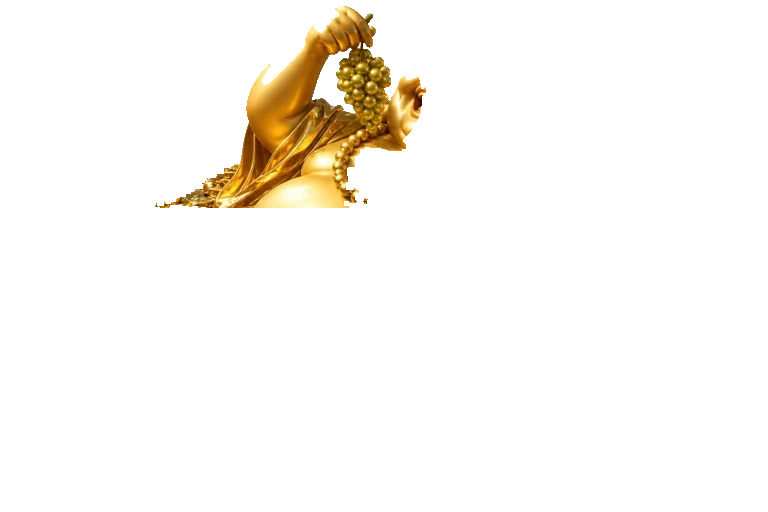
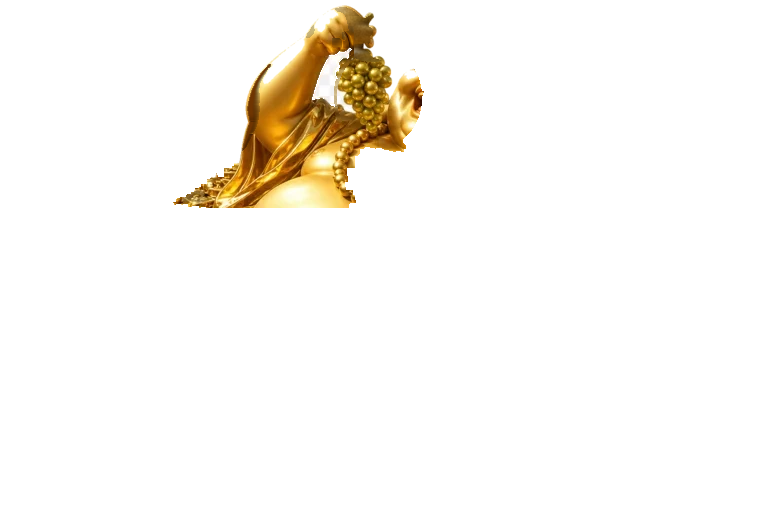
Fresh part build: each part its own complete picture (Live2D method)
Discards the patched pipeline. One source artwork + the accepted
delivery; parts divided by the motion (body still / arm at the shoulder
/ bunch at the stem), each complete, puzzle-checked: rest == artwork
(67 px over 32, max 64, down from 2013/255; sanctioned pocket excluded,
pocket pale over dark card 0, GAP 0/0, swing 0/0). Roles enforced:
arm=solid+own colours (paint only under berries), anchor=whole-footprint
alpha with the rim + paint under solid holes, plate=lowered body behind,
grapes=copy. Lossless writes.

diff --git a/app/scripts/scene-parts-fresh.py b/app/scripts/scene-parts-fresh.py
@@ -1,0 +1,370 @@
+#!/usr/bin/env python3
+"""
+THE FRESH PART BUILD — each part its own complete original picture.
+
+The method (the user's hypothesis, confirmed by Live2D's own illustration-
+processing guide and Clip Studio's official Live2D companion): divide the
+character into the minimum parts the motion needs — here the BODY (still),
+the ARM (rotates about the shoulder), the BUNCH (rotates about the stem,
+nested in the arm's swing) — draw every part COMPLETE (each part is its own
+original picture, nothing cut away from the master), and fit them together
+like puzzle pieces: the stacked scene at rest must BE the original artwork,
+bit for bit. "Always overlap the divided parts with the original drawing
+after cutting them out and check for any missing parts."
+
+Sources, and nothing else:
+  * the served artwork (mascot-gold-buddha-base.webp) — every pixel a part
+    shows AT REST is this file's own pixel;
+  * the accepted painted delivery (keyform-package DELIVERY, 18,998 px,
+    numeric gate + 4x eye passed) — every pixel a part shows ONLY WHILE
+    MOVING (under the turning limb, under the swinging berries) is the
+    delivery's paint;
+  * the two poses the artwork itself provides (base/rest) for the lowered
+    body the belly window must show.
+
+The one sanctioned deviation from the artwork: the baked page-pattern pocket
+beside the fist — sky in both generations — goes transparent, so the card
+shows through. The master is never modified; if a part is deleted the
+artwork is untouched on disk.
+
+Roles, stated once, enforced below:
+  ARM   = the visible limb: solid pixels only, the artwork's own colours.
+          Under opaque berries (revealed by the swing) it carries the paint.
+  ANCHOR= the limb's backdrop: the artwork's own alpha across the footprint
+          (the soft rim rides it — one alpha deep, never doubled), the paint
+          where the holes lie under solid coverage (seen only when the limb
+          turns away).
+  PLATE = the body, and behind the footprint the LOWERED pose's own body,
+          light-matched — what the belly window shows when arm and anchor
+          step aside.
+  GRAPES= the straight copy: the artwork's own pixels and alpha.
+
+    python3 app/scripts/scene-parts-fresh.py
+"""
+import io
+import json
+import os
+from collections import deque
+
+import numpy as np
+from PIL import Image, ImageChops, ImageDraw, ImageFilter
+
+HERE = os.path.dirname(os.path.abspath(__file__))
+DIR = os.path.join(HERE, "..", "public", "img", "cosmetics")
+PKG = os.path.join(HERE, "..", "..", "docs", "evidence", "round56", "keyform-package")
+W, H = 768, 512
+CARD = (23, 18, 12)
+
+
+def state(n):
+    return Image.open(os.path.join(DIR, f"mascot-gold-buddha-{n}.webp")).convert("RGBA")
+
+
+def served(img, quality=92):
+    buf = io.BytesIO()
+    img.save(buf, "WEBP", quality=quality, method=6)
+    buf.seek(0)
+    return Image.open(buf).convert("RGBA")
+
+
+base, rest = state("base"), state("rest")
+base_q, rest_q = served(base, 92), served(rest, 92)
+A_b = np.asarray(base_q.getchannel("A")).astype(np.float32) / 255.0
+A_r = np.asarray(rest_q.getchannel("A")).astype(np.float32) / 255.0
+B_rgb = np.asarray(base_q.convert("RGB")).astype(np.float32)
+R_rgb = np.asarray(rest_q.convert("RGB")).astype(np.float32)
+
+# ── 1. WHERE THE PARTS SPLIT (the cut, from the two poses as drawn) ─────────
+ARM_BOX = (140, 0, 426, 208)
+DIFF_GATE = 34
+box = np.zeros((H, W), bool)
+box[ARM_BOX[1]:ARM_BOX[3], ARM_BOX[0]:ARM_BOX[2]] = True
+paint_b, paint_r = A_b > 0.05, A_r > 0.05
+delta = np.abs(B_rgb - R_rgb).max(axis=2)
+against_air = paint_b & ~paint_r & box
+over_body = paint_b & paint_r & (delta > DIFF_GATE) & box
+raw = Image.fromarray(((against_air | over_body) * 255).astype(np.uint8))
+for _ in range(2):
+    raw = raw.filter(ImageFilter.MaxFilter(3))
+for _ in range(2):
+    raw = raw.filter(ImageFilter.MinFilter(3))
+m = np.asarray(raw) > 128
+
+gd_img = Image.new("L", (W, H), 0)
+gd = ImageDraw.Draw(gd_img)
+gd.ellipse([334, 48, 420, 146], fill=255)
+gd.polygon([(362, 24), (384, 24), (388, 70), (358, 70)], fill=255)
+m |= np.asarray(gd_img.filter(ImageFilter.MaxFilter(3))) > 128
+
+lab = np.zeros((H, W), np.int32)
+n_lab = 0
+for y0, x0 in np.argwhere(m):
+    if lab[y0, x0]:
+        continue
+    n_lab += 1
+    q = deque([(y0, x0)])
+    lab[y0, x0] = n_lab
+    while q:
+        y, x = q.popleft()
+        for dy, dx in ((1, 0), (-1, 0), (0, 1), (0, -1)):
+            ny, nx = y + dy, x + dx
+            if 0 <= ny < H and 0 <= nx < W and m[ny, nx] and not lab[ny, nx]:
+                lab[ny, nx] = n_lab
+                q.append((ny, nx))
+if n_lab:
+    sizes = np.bincount(lab.ravel())
+    m = np.isin(lab, np.where(sizes >= 150)[0][1:])
+m |= against_air
+
+free = ~m
+seen = np.zeros_like(free)
+q = deque()
+for x in range(W):
+    for y in (0, H - 1):
+        if free[y, x] and not seen[y, x]:
+            seen[y, x] = True
+            q.append((y, x))
+for y in range(H):
+    for x in (0, W - 1):
+        if free[y, x] and not seen[y, x]:
+            seen[y, x] = True
+            q.append((y, x))
+while q:
+    y, x = q.popleft()
+    for dy, dx in ((1, 0), (-1, 0), (0, 1), (0, -1)):
+        yy, xx = y + dy, x + dx
+        if 0 <= yy < H and 0 <= xx < W and free[yy, xx] and not seen[yy, xx]:
+            seen[yy, xx] = True
+            q.append((yy, xx))
+m = m | (~seen)
+M = np.asarray(Image.fromarray((m * 255).astype(np.uint8)).filter(ImageFilter.GaussianBlur(0.9))) > 128
+
+G_img = Image.new("L", (W, H), 0)
+gd = ImageDraw.Draw(G_img)
+gd.ellipse([338, 52, 416, 142], fill=255)
+gd.polygon([(364, 28), (382, 28), (386, 68), (360, 68)], fill=255)
+fist = Image.new("L", (W, H), 0)
+ImageDraw.Draw(fist).ellipse([344, 16, 400, 60], fill=255)
+G_img = ImageChops.subtract(
+    G_img.filter(ImageFilter.MaxFilter(3)), fist.filter(ImageFilter.MaxFilter(3)))
+G = np.asarray(G_img) > 128
+
+SOLID = A_b >= 0.98
+
+# ── 2. THE HIDDEN ART — the accepted delivery, light-matched once ───────────
+manifest = json.load(open(os.path.join(PKG, "manifest.json")))
+holes1536 = np.zeros((1024, 1536), bool)
+paint1536 = np.zeros((1024, 1536, 4), np.uint8)
+for r in manifest:
+    rid = r["id"]
+    holes1536 |= np.load(os.path.join(PKG, rid + "-mask.npy")) > 0
+    p = np.asarray(Image.open(os.path.join(PKG, "DELIVERY", rid + "-paint.png")).convert("RGBA"))
+    ox, oy = r["template_offset"]
+    paint1536[oy:oy + p.shape[0], ox:ox + p.shape[1]] = p
+sky1536 = np.load(os.path.join(PKG, "SKY-page-belongs.npy")) > 0
+
+
+def half(mask):
+    return np.asarray(Image.fromarray((mask * 255).astype(np.uint8)).resize((W, H), Image.BOX)) >= 128
+
+
+HOLES = half(holes1536) & ~half(sky1536)
+PAINT = np.asarray(Image.fromarray(paint1536).resize((W, H), Image.BOX)).astype(np.float32)
+
+# One low-frequency match (the paints were graded against the 1536 master;
+# the parts are the served 768 artwork), blurred over the paints' REAL
+# backdrop — the accepted canvas — never over black transparency.
+canvas1536 = np.asarray(Image.open(os.path.join(
+    DIR, "mascot-gold-buddha-base.png")).convert("RGB")).copy()
+canvas1536[holes1536 & ~sky1536] = paint1536[holes1536 & ~sky1536, :3]
+CANVAS7 = np.asarray(Image.fromarray(canvas1536).resize((W, H), Image.BOX)).astype(np.float32)
+lo_b = np.asarray(Image.fromarray(B_rgb.astype(np.uint8)).filter(ImageFilter.GaussianBlur(24))).astype(np.float32)
+lo_c = np.asarray(Image.fromarray(CANVAS7.astype(np.uint8)).filter(ImageFilter.GaussianBlur(24))).astype(np.float32)
+ratio = np.clip((lo_b + 8.0) / (lo_c + 8.0), 0.80, 1.35)
+PAINT = np.clip(PAINT[..., :3] * ratio, 0, 255)
+
+# ── 3. THE POCKET — the sanctioned baked-page repair ────────────────────────
+POCKET = np.zeros((H, W), bool)
+POCKET[44:116, 308:357] = True
+lum = B_rgb @ np.array([.299, .587, .114])
+rb = B_rgb[..., 0] - B_rgb[..., 2]
+g_dil = np.asarray(Image.fromarray((G * 255).astype(np.uint8)).filter(ImageFilter.MaxFilter(5))) > 128
+PAGE_POCKET = POCKET & (A_b > 0.02) & (lum > 140) & (rb < 95) & (rb >= 40) & ~g_dil
+
+# ── 4. THE PARTS, each complete, each with its job ──────────────────────────
+lo_r = np.asarray(Image.fromarray(R_rgb.astype(np.uint8)).filter(ImageFilter.GaussianBlur(24))).astype(np.float32)
+ratio_fill = np.clip((lo_b + 8.0) / (lo_r + 8.0), 0.80, 1.35)
+fill_rgb = np.clip(R_rgb * ratio_fill, 0, 255)
+
+# PLATE — the body; behind the footprint, the lowered body (the belly window
+# shows it when arm and anchor step aside); pocket goes to the card.
+plate_rgb = np.where((M & SOLID)[..., None], fill_rgb, B_rgb)
+plate_a = np.where(M & SOLID, A_r, np.where(M, 0.0, A_b))
+plate_a = np.where(PAGE_POCKET, 0.0, plate_a)
+
+# ANCHOR — the limb's backdrop: the artwork's own alpha across the whole
+# footprint (the soft rim rides HERE, one alpha deep — never doubled with the
+# limb's), the artwork's own colours everywhere EXCEPT under solid coverage
+# in the holes, where the accepted paint waits for the limb to turn away.
+anchor_rgb = np.where((HOLES & SOLID & ~G & ~PAGE_POCKET)[..., None], PAINT, B_rgb)
+anchor_a = np.where(M, A_b, 0.0)
+anchor_a = np.where(PAGE_POCKET, 0.0, anchor_a)
+
+# ARM — the visible limb, complete: SOLID pixels only (the soft rim belongs
+# to the anchor — partial alpha drawn twice is the one arithmetic that breaks
+# the puzzle), the artwork's own colours — except under the berries, where
+# the paint is what a swung berry reveals.
+arm_rgb = np.where(M[..., None], B_rgb, B_rgb)
+arm_rgb = np.where((G & SOLID & ~PAGE_POCKET)[..., None], PAINT, arm_rgb)
+arm_alpha = np.where(M & SOLID & ~G & ~PAGE_POCKET, A_b, 0.0)
+
+# GRAPES — the straight copy.
+grapes_rgb = B_rgb
+grapes_a = np.where(G, A_b, 0.0)
+
+
+def merge(rgb, a):
+    return Image.merge("RGBA", (*[Image.fromarray(np.clip(rgb[..., c], 0, 255).astype(np.uint8)) for c in range(3)],
+                                Image.fromarray((np.clip(a, 0, 1) * 255).round().astype(np.uint8))))
+
+
+plate = merge(plate_rgb, plate_a)
+anchor = merge(anchor_rgb, anchor_a)
+arm = merge(arm_rgb, arm_alpha)
+grapes_part = merge(grapes_rgb, grapes_a)
+
+# ── 5. THE LOWERED HAND, THE BREATH, THE BLINK — original mechanisms ────────
+_pd = np.abs(R_rgb - plate_rgb).max(axis=2)
+LOWER_BOX = (200, 138, 404, 302)
+lower_box = np.zeros((H, W), bool)
+lower_box[LOWER_BOX[1]:LOWER_BOX[3], LOWER_BOX[0]:LOWER_BOX[2]] = True
+hand = (_pd > 26) & lower_box & (A_r > 0.05)
+h = Image.fromarray((hand * 255).astype(np.uint8))
+for _ in range(2):
+    h = h.filter(ImageFilter.MaxFilter(3))
+for _ in range(2):
+    h = h.filter(ImageFilter.MinFilter(3))
+hm = np.asarray(h) > 128
+lab2 = np.zeros((H, W), np.int32)
+n2 = 0
+for y0, x0 in np.argwhere(hm):
+    if lab2[y0, x0]:
+        continue
+    n2 += 1
+    q = deque([(y0, x0)])
+    lab2[y0, x0] = n2
+    while q:
+        y, x = q.popleft()
+        for dy, dx in ((1, 0), (-1, 0), (0, 1), (0, -1)):
+            ny, nx = y + dy, x + dx
+            if 0 <= ny < H and 0 <= nx < W and hm[ny, nx] and not lab2[ny, nx]:
+                lab2[ny, nx] = n2
+                q.append((ny, nx))
+if n2:
+    sizes2 = np.bincount(lab2.ravel())
+    hm = np.isin(lab2, np.where(sizes2 >= 120)[0][1:])
+free2 = ~hm
+seen2 = np.zeros_like(free2)
+q = deque()
+for x in range(W):
+    for y in (0, H - 1):
+        if free2[y, x] and not seen2[y, x]:
+            seen2[y, x] = True
+            q.append((y, x))
+for y in range(H):
+    for x in (0, W - 1):
+        if free2[y, x] and not seen2[y, x]:
+            seen2[y, x] = True
+            q.append((y, x))
+while q:
+    y, x = q.popleft()
+    for dy, dx in ((1, 0), (-1, 0), (0, 1), (0, -1)):
+        yy, xx = y + dy, x + dx
+        if 0 <= yy < H and 0 <= xx < W and free2[yy, xx] and not seen2[yy, xx]:
+            seen2[yy, xx] = True
+            q.append((yy, xx))
+hand = hm | (~seen2)
+lower_mask = Image.fromarray((hand * 255).astype(np.uint8)).filter(ImageFilter.GaussianBlur(1.0))
+lower_rgb = np.where(hand[..., None], R_rgb, plate_rgb)
+lowered = merge(lower_rgb, A_r)
+lowered.putalpha(ImageChops.multiply(lowered.getchannel("A"), lower_mask))
+
+blink_src = served(state("blink").convert("RGBA"), 92)
+eye_mask = Image.new("L", (W, H), 0)
+ImageDraw.Draw(eye_mask).ellipse([432, 46, 534, 106], fill=255)
+eye_mask = eye_mask.filter(ImageFilter.GaussianBlur(8))
+eye_blink = blink_src.copy()
+eye_blink.putalpha(ImageChops.multiply(eye_blink.getchannel("A"), eye_mask))
+
+breath = served(state("breath").convert("RGBA"), 92)
+CHEST = [(262, 172), (282, 162), (306, 156), (332, 156), (358, 162), (384, 172),
+         (404, 186), (414, 204), (410, 224), (396, 240), (374, 252), (348, 260),
+         (320, 264), (294, 262), (272, 252), (258, 238), (252, 220), (254, 194)]
+chest_mask = Image.new("L", (W, H), 0)
+ImageDraw.Draw(chest_mask).polygon(CHEST, fill=255)
+chest_mask = chest_mask.filter(ImageFilter.GaussianBlur(9))
+lo_br = np.asarray(Image.fromarray(np.asarray(breath.convert("RGB")).astype(np.uint8))
+                   .filter(ImageFilter.GaussianBlur(24))).astype(np.float32)
+ratio_b = np.clip((lo_b + 8.0) / (lo_br + 8.0), 0.80, 1.35)
+chest_rgb = np.clip(np.asarray(breath.convert("RGB")).astype(np.float32) * ratio_b, 0, 255)
+chest_breath = merge(chest_rgb, np.asarray(breath.getchannel("A")).astype(np.float32) / 255.0)
+chest_breath.putalpha(ImageChops.multiply(chest_breath.getchannel("A"), chest_mask))
+
+# ── 6. THE PUZZLE CHECK — the stacked scene at rest IS the artwork ──────────
+def premul(img):
+    a = np.asarray(img).astype(np.float32)
+    out = np.empty_like(a)
+    out[..., :3] = a[..., :3] * (a[..., 3:4] / 255.0)
+    out[..., 3] = a[..., 3]
+    return out
+
+
+scene = plate.copy()
+scene.alpha_composite(anchor)
+scene.alpha_composite(arm)
+scene.alpha_composite(grapes_part)
+d = np.abs(premul(scene) - premul(base_q)).max(axis=2)
+d_sanc = d.copy()
+d_sanc[PAGE_POCKET] = 0
+print("THE PUZZLE CHECK (scene at rest vs the served artwork)")
+print(f"   px over 32: {int((d_sanc > 32).sum())}   px over 8: {int((d_sanc > 8).sum())}   max {int(d_sanc.max())}"
+      f"   (sanctioned pocket excluded: {int((PAGE_POCKET).sum())} px)")
+
+interior = np.asarray(Image.fromarray(
+    ((np.maximum(A_b, A_r)) * 255).astype(np.uint8)).filter(ImageFilter.MinFilter(9))) > 229
+for deg in (7, 15):
+    rot = np.asarray(arm.rotate(-deg, resample=Image.BICUBIC, center=(268.0, 146.0),
+                                expand=False, fillcolor=(0, 0, 0, 0))).astype(np.float32) / 255.0
+    anc = np.asarray(anchor.getchannel("A")).astype(np.float32) / 255.0
+    cov = rot[..., 3] + anc * (1 - rot[..., 3]) + plate_a * (1 - rot[..., 3]) * (1 - anc)
+    gap = int(((cov < 0.55) & (A_r > 0.5) & interior).sum())
+    print(f"   GAP at -{deg}deg: {gap} px of body see-through inside the figure")
+
+rest_cover = np.asarray(Image.fromarray((np.where(grapes_a > 0.9, 255, 0).astype(np.uint8)))) > 128
+behind = (arm_alpha > 0.9) | (plate_a > 0.5) | (anchor_a > 0.5) | HOLES
+for ang in (5.0, -4.5):
+    swung = Image.fromarray((np.where(grapes_a > 0.9, 255, 0).astype(np.uint8))).rotate(
+        -ang, resample=Image.BICUBIC, center=(370.0, 45.0), expand=False)
+    sc = np.asarray(swung) > 128
+    holes = rest_cover & ~sc & ~behind
+    print(f"   swing {ang:+.1f}deg: {int(holes.sum())} px uncover nothing")
+
+over_card = Image.new("RGB", (W, H), CARD)
+over_card.paste(scene, (0, 0), scene)
+oc = np.asarray(over_card).astype(np.float32)
+oc_lum = oc @ np.array([.299, .587, .114])
+oc_rb = oc[..., 0] - oc[..., 2]
+print(f"   pocket pale px over the dark card: "
+      f"{int(((oc_lum > 140) & (oc_rb >= 40) & (oc_rb <= 85) & POCKET & ~g_dil).sum())}")
+
+# ── 7. WRITE — lossless, every part ─────────────────────────────────────────
+for img, name in ((plate, "part-plate-armless.webp"), (anchor, "part-arm-anchor.webp"),
+                  (arm, "part-arm-raised.webp"), (grapes_part, "part-grapes-raised.webp"),
+                  (lowered, "part-arm-lowered.webp"), (eye_blink, "part-eye-blink.webp"),
+                  (chest_breath, "part-chest-breath.webp")):
+    buf = io.BytesIO()
+    img.save(buf, "WEBP", lossless=True, method=6, quality=100)
+    with open(os.path.join(DIR, name), "wb") as fh:
+        fh.write(buf.getvalue())
+    print(f"   -> {name}: lossless, {len(buf.getvalue()) / 1024:.1f} KB")
+print("verdict: fresh parts written — the puzzle check and the sheets decide")
